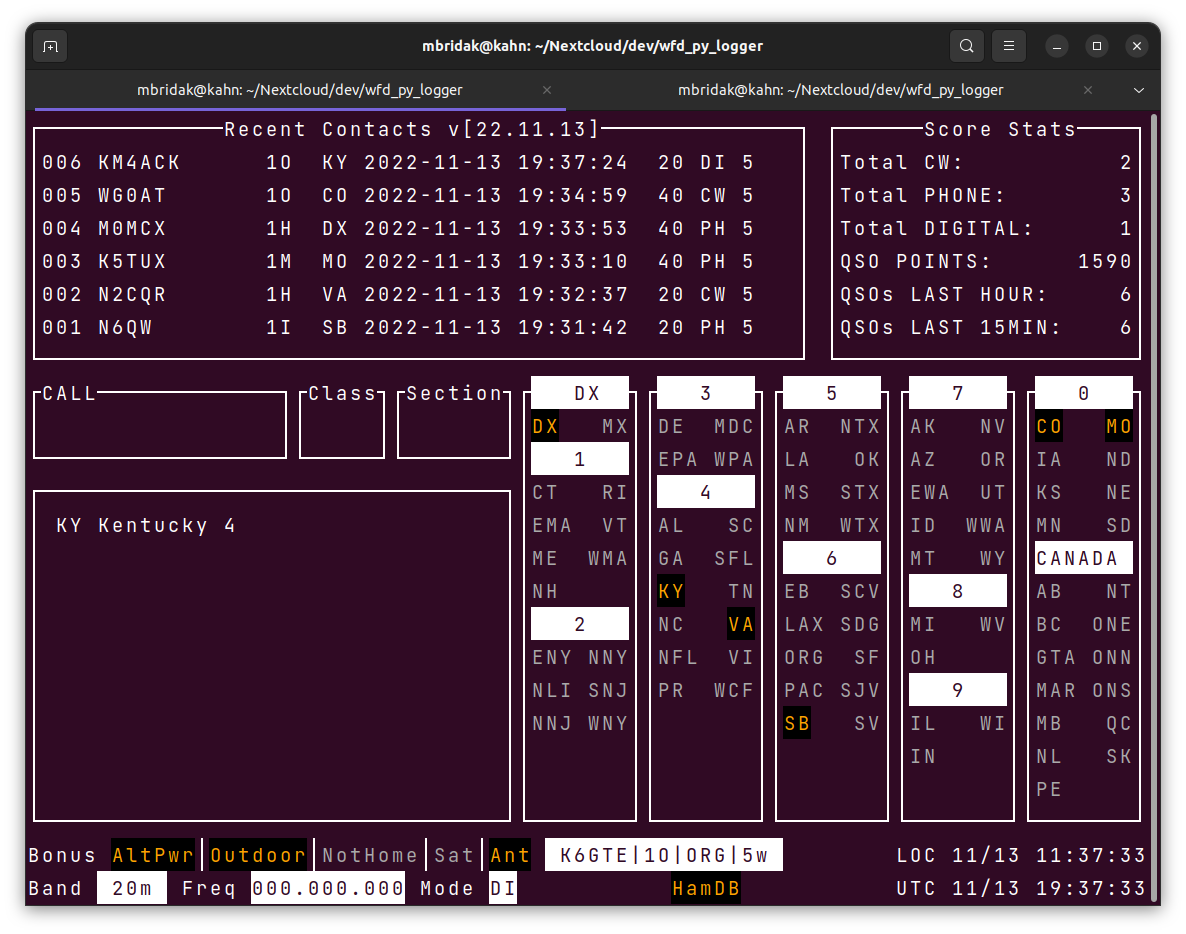
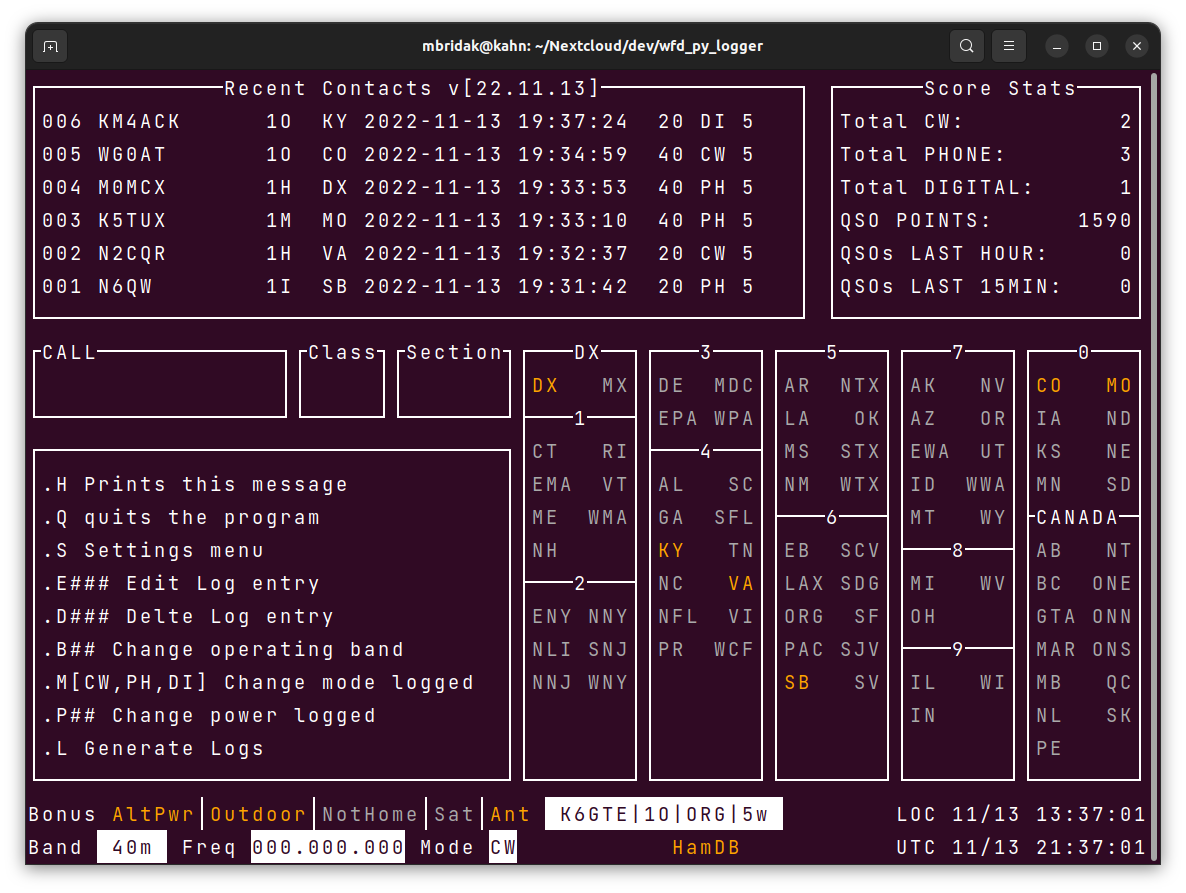
fixed: highlight background color.
* Now doesn't assume black.
* Removed reverse video highlighting on section headers.

Changed region(s): [[0.0, 0.0302, 0.9983, 0.9978], [0.7799, 0.7861, 0.8111, 0.8163]]

diff --git a/WFD_Curses.py b/WFD_Curses.py
@@ -1232,10 +1232,14 @@ def workedSection(section):
 def sectionsCol1():
     """display section column 1"""
     rectangle(stdscr, 8, 35, 21, 43)
-    stdscr.addstr(8, 36, "   DX  ", curses.A_REVERSE)
+    stdscr.hline(8, 36, curses.ACS_HLINE, 7)
+    stdscr.addstr(8, 39, "DX")
     stdscr.addstr(9, 36, "DX", workedSection("DX"))
     stdscr.addstr(9, 41, "MX", workedSection("MX"))
-    stdscr.addstr(10, 36, "   1   ", curses.A_REVERSE)
+    stdscr.addch(10, 35, curses.ACS_LTEE)
+    stdscr.hline(10, 36, curses.ACS_HLINE, 7)
+    stdscr.addch(10, 43, curses.ACS_RTEE)
+    stdscr.addstr(10, 39, "1")
     stdscr.addstr(11, 36, "CT", workedSection("CT"))
     stdscr.addstr(11, 41, "RI", workedSection("RI"))
     stdscr.addstr(12, 36, "EMA", workedSection("EMA"))
@@ -1243,7 +1247,10 @@ def sectionsCol1():
     stdscr.addstr(13, 36, "ME", workedSection("ME"))
     stdscr.addstr(13, 40, "WMA", workedSection("WMA"))
     stdscr.addstr(14, 36, "NH", workedSection("NH"))
-    stdscr.addstr(15, 36, "   2   ", curses.A_REVERSE)
+    stdscr.addch(15, 35, curses.ACS_LTEE)
+    stdscr.hline(15, 36, curses.ACS_HLINE, 7)
+    stdscr.addch(15, 43, curses.ACS_RTEE)
+    stdscr.addstr(15, 39, "2")
     stdscr.addstr(16, 36, "ENY", workedSection("ENY"))
     stdscr.addstr(16, 40, "NNY", workedSection("NNY"))
     stdscr.addstr(17, 36, "NLI", workedSection("NLI"))
@@ -1255,12 +1262,16 @@ def sectionsCol1():
 def sectionsCol2():
     """display section column 2"""
     rectangle(stdscr, 8, 44, 21, 52)
-    stdscr.addstr(8, 45, "   3   ", curses.A_REVERSE)
+    stdscr.hline(8, 45, curses.ACS_HLINE, 7)
+    stdscr.addstr(8, 48, "3")
     stdscr.addstr(9, 45, "DE", workedSection("DE"))
     stdscr.addstr(9, 49, "MDC", workedSection("MDC"))
     stdscr.addstr(10, 45, "EPA", workedSection("EPA"))
     stdscr.addstr(10, 49, "WPA", workedSection("WPA"))
-    stdscr.addstr(11, 45, "   4   ", curses.A_REVERSE)
+    stdscr.addch(11, 44, curses.ACS_LTEE)
+    stdscr.hline(11, 45, curses.ACS_HLINE, 7)
+    stdscr.addch(11, 52, curses.ACS_RTEE)
+    stdscr.addstr(11, 48, "4")
     stdscr.addstr(12, 45, "AL", workedSection("AL"))
     stdscr.addstr(12, 50, "SC", workedSection("SC"))
     stdscr.addstr(13, 45, "GA", workedSection("GA"))
@@ -1278,7 +1289,8 @@ def sectionsCol2():
 def sectionsCol3():
     """display section column 3"""
     rectangle(stdscr, 8, 53, 21, 61)
-    stdscr.addstr(8, 54, "   5   ", curses.A_REVERSE)
+    stdscr.hline(8, 54, curses.ACS_HLINE, 7)
+    stdscr.addstr(8, 57, "5")
     stdscr.addstr(9, 54, "AR", workedSection("AR"))
     stdscr.addstr(9, 58, "NTX", workedSection("NTX"))
     stdscr.addstr(10, 54, "LA", workedSection("LA"))
@@ -1287,7 +1299,10 @@ def sectionsCol3():
     stdscr.addstr(11, 58, "STX", workedSection("STX"))
     stdscr.addstr(12, 54, "NM", workedSection("NM"))
     stdscr.addstr(12, 58, "WTX", workedSection("WTX"))
-    stdscr.addstr(13, 54, "   6   ", curses.A_REVERSE)
+    stdscr.addch(13, 53, curses.ACS_LTEE)
+    stdscr.hline(13, 54, curses.ACS_HLINE, 7)
+    stdscr.addch(13, 61, curses.ACS_RTEE)
+    stdscr.addstr(13, 57, "6")
     stdscr.addstr(14, 54, "EB", workedSection("EB"))
     stdscr.addstr(14, 58, "SCV", workedSection("SCV"))
     stdscr.addstr(15, 54, "LAX", workedSection("LAX"))
@@ -1303,7 +1318,8 @@ def sectionsCol3():
 def sectionsCol4():
     """display section column 4"""
     rectangle(stdscr, 8, 62, 21, 70)
-    stdscr.addstr(8, 63, "   7   ", curses.A_REVERSE)
+    stdscr.hline(8, 63, curses.ACS_HLINE, 7)
+    stdscr.addstr(8, 66, "7")
     stdscr.addstr(9, 63, "AK", workedSection("AK"))
     stdscr.addstr(9, 68, "NV", workedSection("NV"))
     stdscr.addstr(10, 63, "AZ", workedSection("AZ"))
@@ -1314,11 +1330,17 @@ def sectionsCol4():
     stdscr.addstr(12, 67, "WWA", workedSection("WWA"))
     stdscr.addstr(13, 63, "MT", workedSection("MT"))
     stdscr.addstr(13, 68, "WY", workedSection("WY"))
-    stdscr.addstr(14, 63, "   8   ", curses.A_REVERSE)
+    stdscr.addch(14, 62, curses.ACS_LTEE)
+    stdscr.hline(14, 63, curses.ACS_HLINE, 7)
+    stdscr.addch(14, 70, curses.ACS_RTEE)
+    stdscr.addstr(14, 66, "8")
     stdscr.addstr(15, 63, "MI", workedSection("MI"))
     stdscr.addstr(15, 68, "WV", workedSection("WV"))
     stdscr.addstr(16, 63, "OH", workedSection("OH"))
-    stdscr.addstr(17, 63, "   9   ", curses.A_REVERSE)
+    stdscr.addch(17, 62, curses.ACS_LTEE)
+    stdscr.hline(17, 63, curses.ACS_HLINE, 7)
+    stdscr.addch(17, 70, curses.ACS_RTEE)
+    stdscr.addstr(17, 66, "9")
     stdscr.addstr(18, 63, "IL", workedSection("IL"))
     stdscr.addstr(18, 68, "WI", workedSection("WI"))
     stdscr.addstr(19, 63, "IN", workedSection("IN"))
@@ -1327,7 +1349,8 @@ def sectionsCol4():
 def sectionsCol5():
     """display section column 5"""
     rectangle(stdscr, 8, 71, 21, 79)
-    stdscr.addstr(8, 72, "   0   ", curses.A_REVERSE)
+    stdscr.hline(8, 72, curses.ACS_HLINE, 7)
+    stdscr.addstr(8, 75, "0")
     stdscr.addstr(9, 72, "CO", workedSection("CO"))
     stdscr.addstr(9, 77, "MO", workedSection("MO"))
     stdscr.addstr(10, 72, "IA", workedSection("IA"))
@@ -1336,7 +1359,10 @@ def sectionsCol5():
     stdscr.addstr(11, 77, "NE", workedSection("NE"))
     stdscr.addstr(12, 72, "MN", workedSection("MN"))
     stdscr.addstr(12, 77, "SD", workedSection("SD"))
-    stdscr.addstr(13, 72, "CANADA ", curses.A_REVERSE)
+    stdscr.addch(13, 71, curses.ACS_LTEE)
+    stdscr.hline(13, 72, curses.ACS_HLINE, 7)
+    stdscr.addch(13, 79, curses.ACS_RTEE)
+    stdscr.addstr(13, 72, "CANADA")
     stdscr.addstr(14, 72, "AB", workedSection("AB"))
     stdscr.addstr(14, 77, "NT", workedSection("NT"))
     stdscr.addstr(15, 72, "BC", workedSection("BC"))
@@ -1964,9 +1990,9 @@ def main(s) -> None:
         curses.init_color(curses.COLOR_MAGENTA, 1000, 640, 0)
         curses.init_color(curses.COLOR_BLACK, 0, 0, 0)
         curses.init_color(curses.COLOR_CYAN, 500, 500, 500)
-        curses.init_pair(1, curses.COLOR_MAGENTA, curses.COLOR_BLACK)
-        curses.init_pair(2, curses.COLOR_RED, curses.COLOR_BLACK)
-        curses.init_pair(3, curses.COLOR_CYAN, curses.COLOR_BLACK)
+        curses.init_pair(1, curses.COLOR_MAGENTA, -1)
+        curses.init_pair(2, curses.COLOR_RED, -1)
+        curses.init_pair(3, curses.COLOR_CYAN, -1)
     curses.noecho()
     curses.cbreak()
     stdscr.keypad(True)
